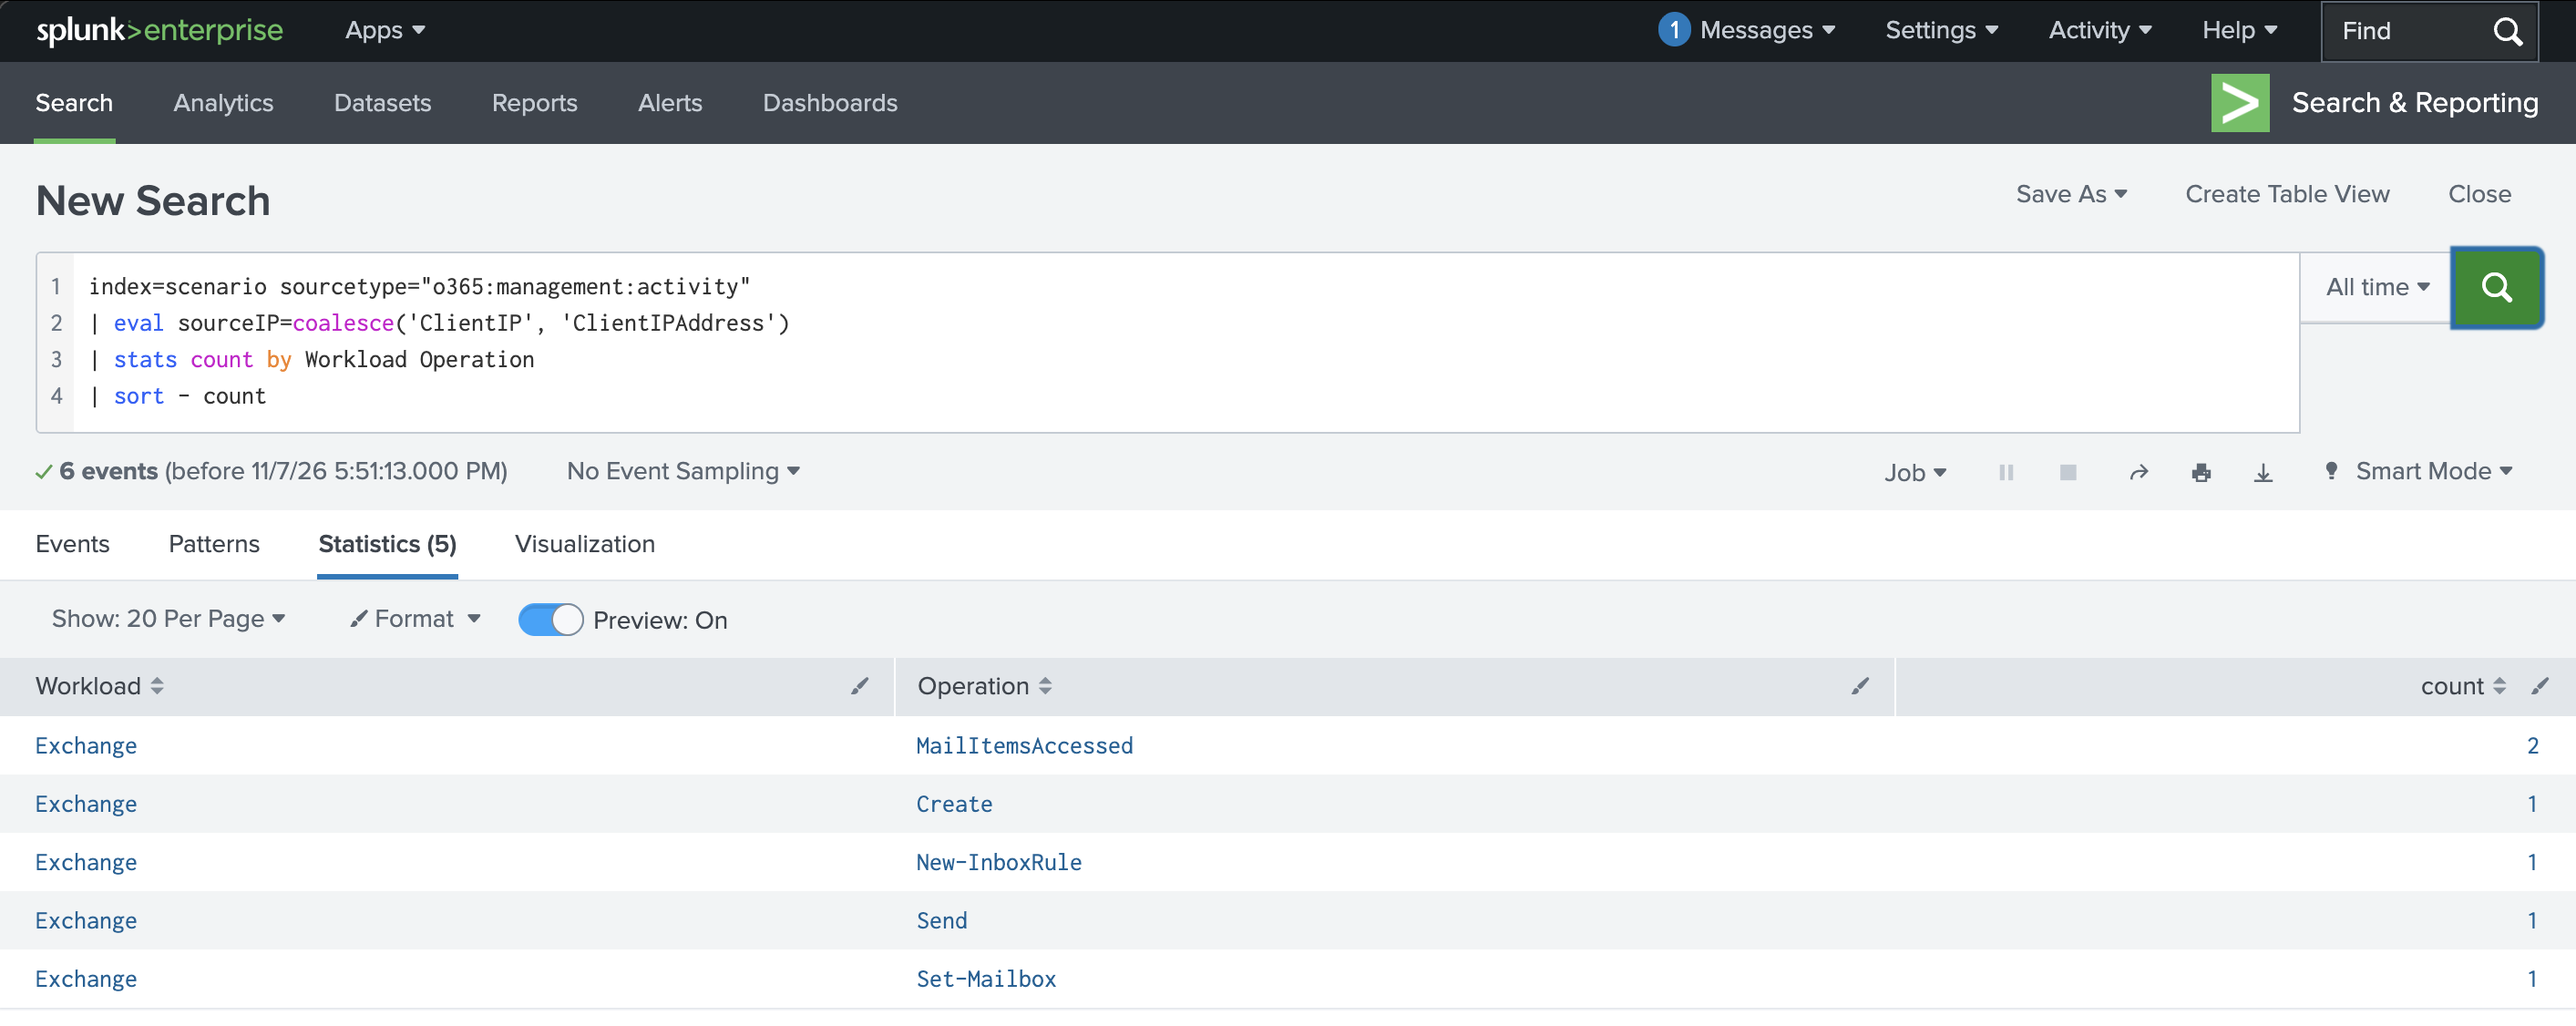
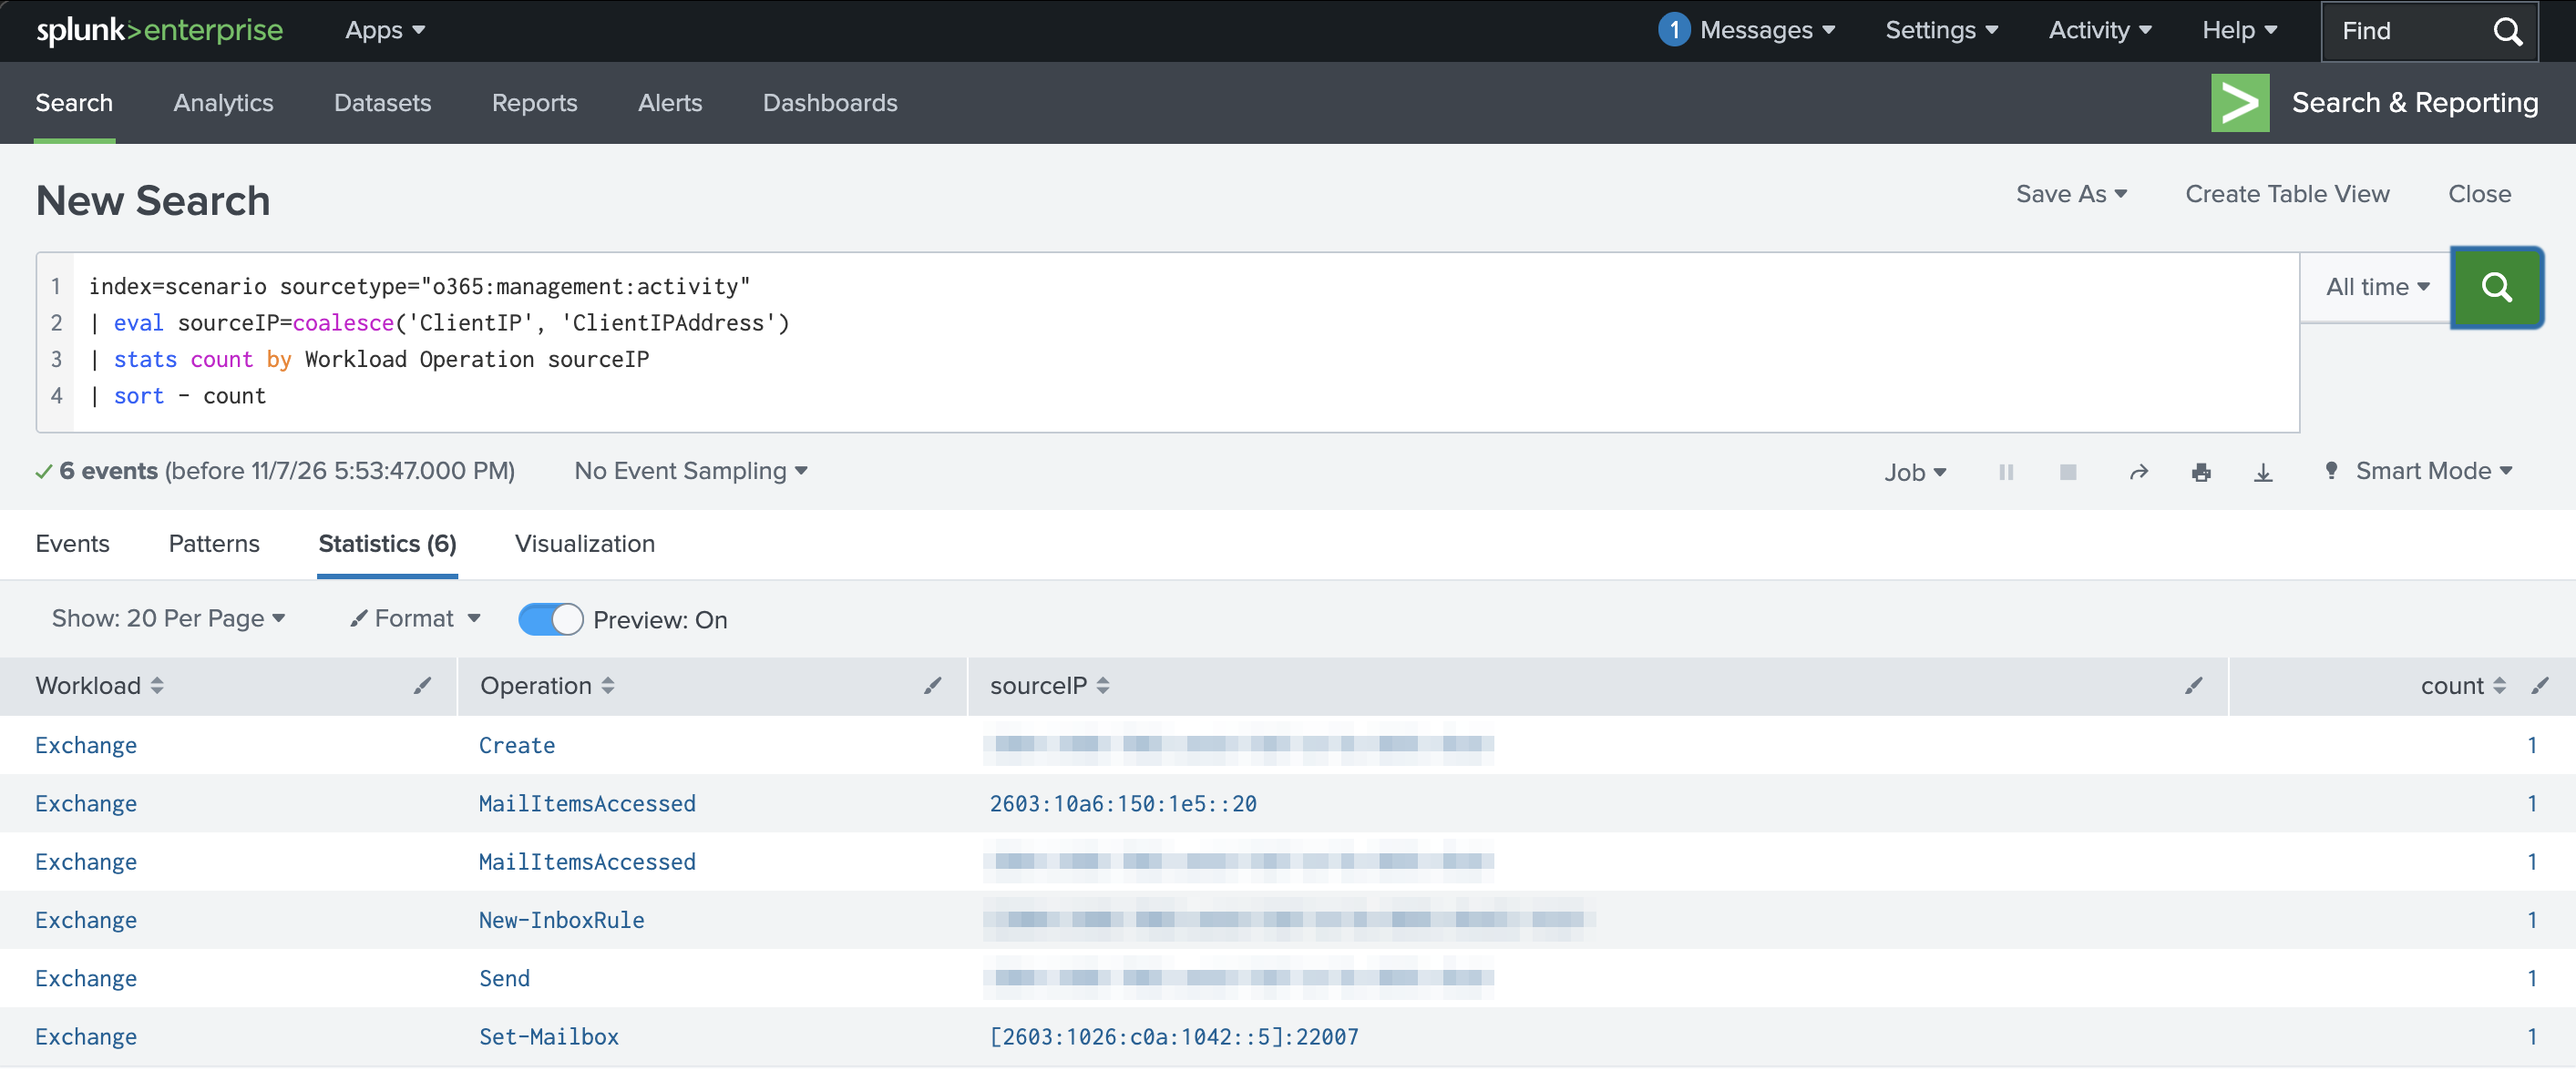
Update lab 4.7: group M365 activity by source IP
Claude-Session: https://claude.ai/code/session_01GYQF1Y8mxbXkmN7SD4r598

diff --git a/04-compliance.md b/04-compliance.md
@@ -92,7 +92,7 @@ Microsoft Learn exercises or an E5 trial tenant. The audit lab can also be done 
 ```spl
 index=scenario sourcetype="o365:management:activity"
 | eval sourceIP=coalesce('ClientIP', 'ClientIPAddress')
-| stats count by Workload Operation
+| stats count by Workload Operation sourceIP
 | sort - count
 ```
 
@@ -100,7 +100,7 @@ index=scenario sourcetype="o365:management:activity"
 
 ```kql
 OfficeActivity
-| summarize count() by OfficeWorkload, Operation
+| summarize count() by OfficeWorkload, Operation, ClientIP
 | sort by count_ desc
 ```
 
@@ -108,7 +108,9 @@ OfficeActivity
 
 ![M365 Unified Audit Log activity by workload and operation](images/4.7-m365-unified-audit.png)
 
-**Why it works** — The Unified Audit Log records actions across Exchange, SharePoint, OneDrive and Teams, and `stats count by` gives a quick overview of what happened. Every action here is in Exchange. `MailItemsAccessed` shows mail being read, which is an Audit (Premium) event. `New-InboxRule` and `Set-Mailbox` are common attacker moves after a compromise: they hide or forward mail. (The `sourceIP` line is only useful if you add it to the `stats`, for example `by Workload Operation sourceIP`.)
+*Attacker IP redacted.*
+
+**Why it works** — The Unified Audit Log records actions across Exchange, SharePoint, OneDrive and Teams. `coalesce` merges the two IP field names into one `sourceIP`, and `stats count by` gives a quick overview of who did what from where. Every action here is in Exchange. `MailItemsAccessed` shows mail being read, which is an Audit (Premium) event. Grouping by IP separates the attacker's activity (creating and sending mail, adding an inbox rule) from activity coming from Microsoft's own address ranges. `New-InboxRule` and `Set-Mailbox` are common attacker moves after a compromise: they hide or forward mail.
 
 **Exam trap** — `MailItemsAccessed` (used to investigate mailbox breaches) comes with **Audit (Premium)**.
 
